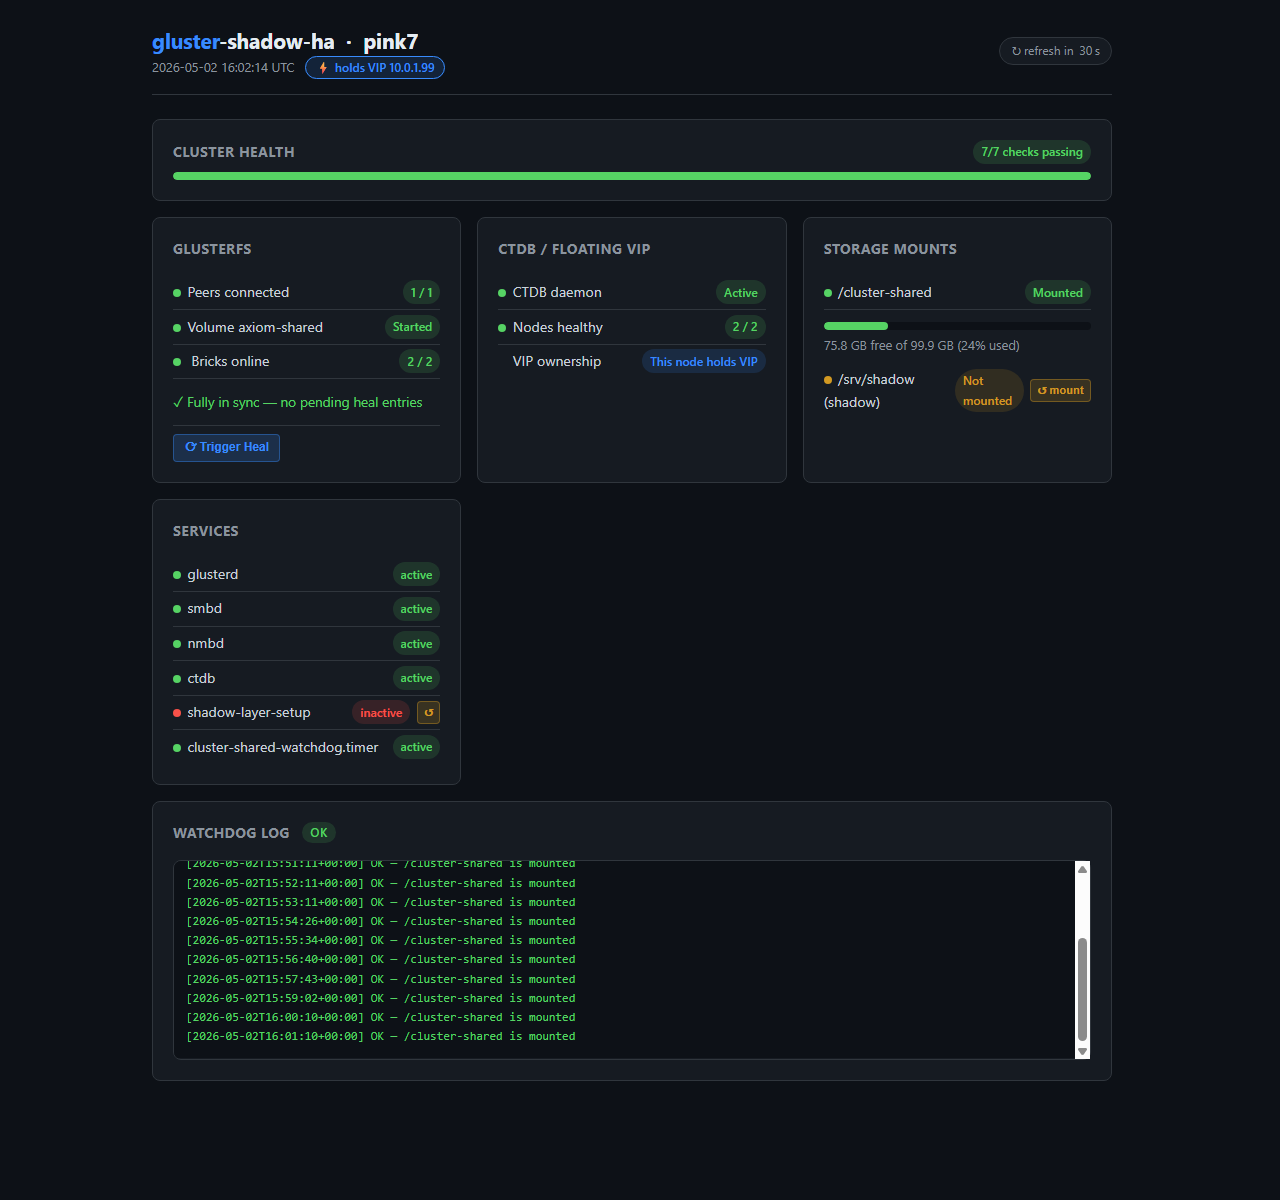
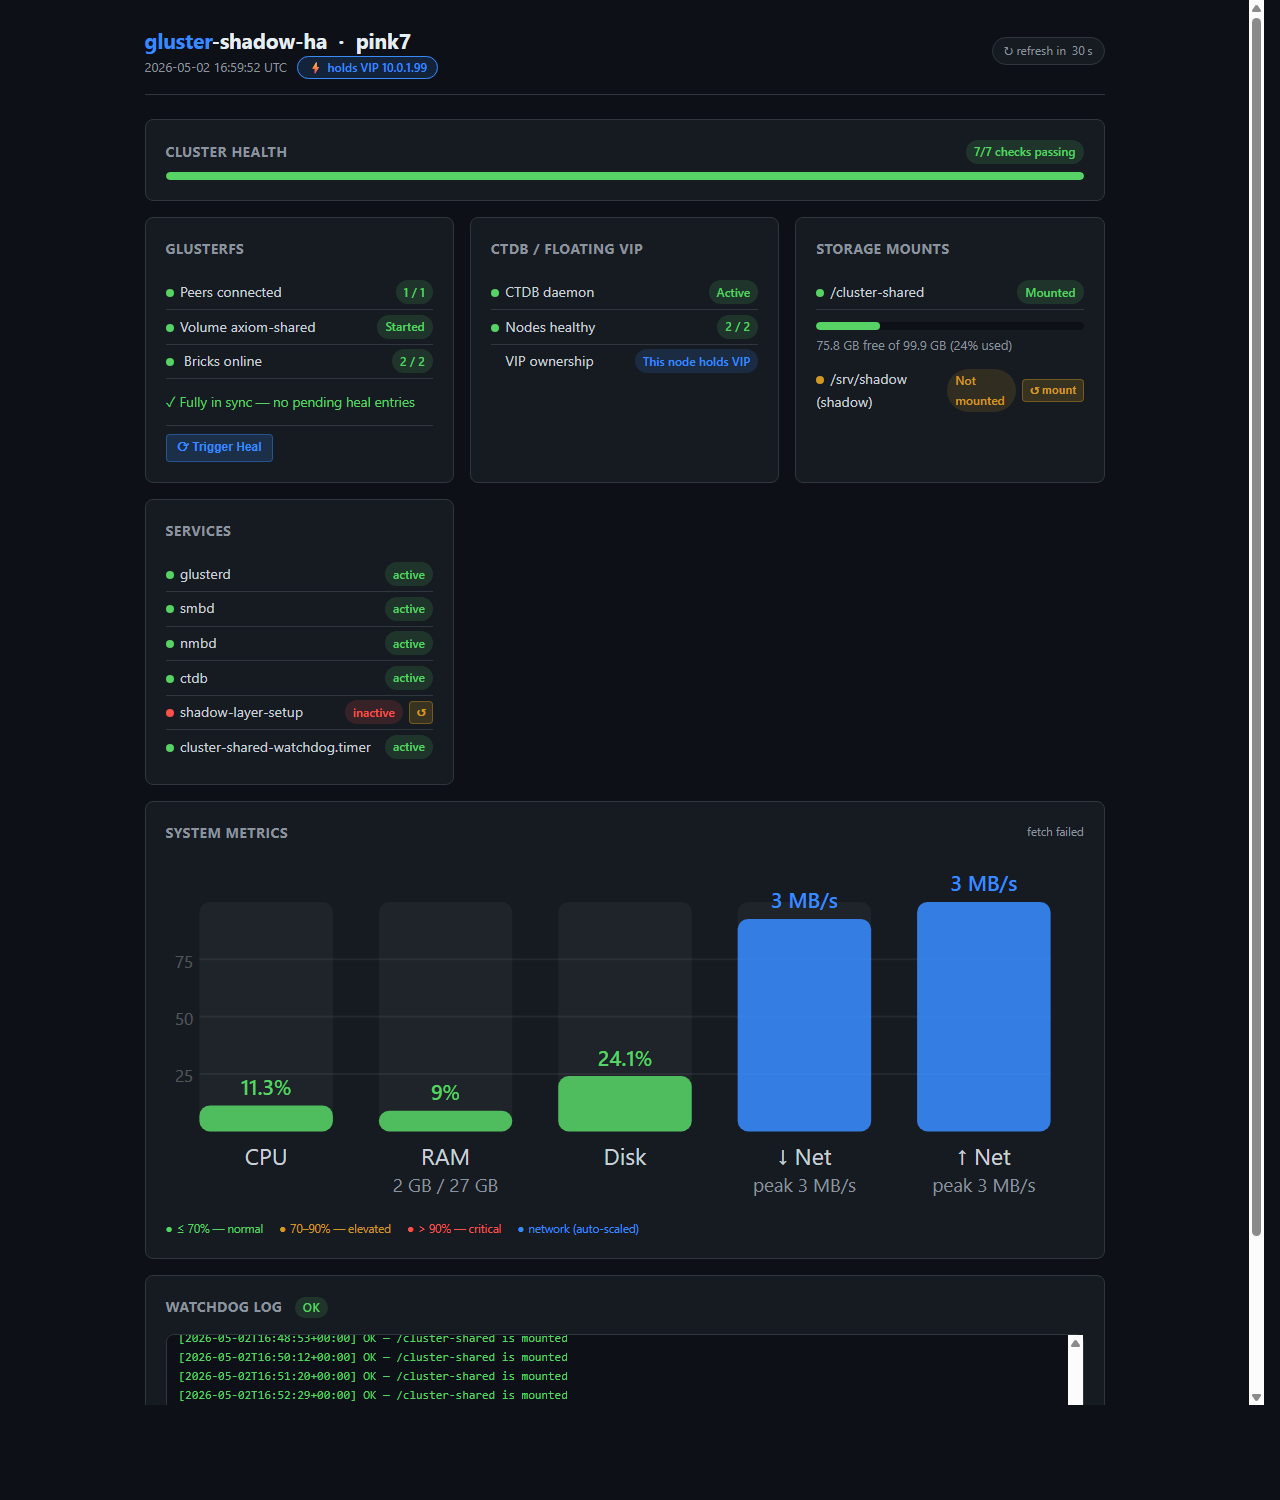
feat(dashboard): add live system metrics bar chart (CPU, RAM, disk, network)

diff --git a/scripts/dashboard.py b/scripts/dashboard.py
@@ -28,6 +28,15 @@ import subprocess, socket, os, json, time, re
 from datetime import datetime
 
 try:
+    import psutil
+    PSUTIL = True
+except ImportError:
+    PSUTIL = False
+
+# state for network rate calculation (persists across requests)
+_net_state = {"prev": None, "t": 0.0}
+
+try:
     from flask import Flask, jsonify, render_template_string, request as flask_request
     FLASK = True
 except ImportError:
@@ -57,6 +66,12 @@ def sh(cmd, timeout=6):
 
 def mountpoint(path):
     return os.path.ismount(path)
+
+def _fmt_bytes(b):
+    for u in ("B", "KB", "MB", "GB", "TB"):
+        if abs(b) < 1024: return f"{b:.0f} {u}"
+        b /= 1024
+    return f"{b:.1f} PB"
 
 def disk_free(path):
     try:
@@ -247,6 +262,48 @@ def collect_splitbrain_detail():
 
     return result
 
+def collect_system():
+    """CPU %, RAM %, disk %, and network throughput via psutil."""
+    if not PSUTIL:
+        return {"available": False}
+
+    cpu_pct = psutil.cpu_percent(interval=None)   # non-blocking; samples since last call
+    mem     = psutil.virtual_memory()
+
+    # disk — prefer cluster mount, fall back to /
+    try:
+        dp   = CLUSTER_MOUNT if mountpoint(CLUSTER_MOUNT) else "/"
+        du   = psutil.disk_usage(dp)
+        disk_pct = round(du.percent, 1)
+    except Exception:
+        disk_pct = 0
+
+    # network rate — delta since last call
+    net = psutil.net_io_counters()
+    now = time.time()
+    rx_bps = tx_bps = 0
+    prev = _net_state["prev"]
+    if prev is not None:
+        dt = now - _net_state["t"]
+        if dt > 0.05:
+            rx_bps = max(0, int((net.bytes_recv - prev.bytes_recv) / dt))
+            tx_bps = max(0, int((net.bytes_sent - prev.bytes_sent) / dt))
+    _net_state["prev"] = net
+    _net_state["t"]    = now
+
+    return {
+        "available": True,
+        "cpu_pct":   round(cpu_pct, 1),
+        "mem_pct":   round(mem.percent, 1),
+        "mem_used":  _fmt_bytes(mem.used),
+        "mem_total": _fmt_bytes(mem.total),
+        "disk_pct":  disk_pct,
+        "rx_bps":    rx_bps,
+        "tx_bps":    tx_bps,
+        "rx_fmt":    _fmt_bytes(rx_bps) + "/s",
+        "tx_fmt":    _fmt_bytes(tx_bps) + "/s",
+    }
+
 def get_all_status():
     return {
         "hostname":  HOSTNAME,
@@ -256,6 +313,7 @@ def get_all_status():
         "mounts":    collect_mounts(),
         "watchdog":  collect_watchdog(),
         "services":  collect_services(),
+        "system":    collect_system(),
     }
 
 # ── HTML template ─────────────────────────────────────────────────────────────
@@ -364,6 +422,13 @@ HTML = r"""<!DOCTYPE html>
   .modal-footer{display:flex;justify-content:flex-end;gap:.5rem;
     padding-top:1rem;margin-top:.5rem;border-top:1px solid var(--border)}
   .policy-grid{display:grid;grid-template-columns:repeat(auto-fill,minmax(130px,1fr));gap:.5rem}
+
+  /* ── system metrics chart ── */
+  .chart-wrap{width:100%;overflow:hidden}
+  .chart-wrap svg{display:block;width:100%;height:auto}
+  .sys-legend{display:flex;flex-wrap:wrap;gap:.35rem 1rem;margin-top:.6rem;font-size:.72rem;color:var(--muted)}
+  .sys-legend span::before{content:"●";margin-right:.25rem}
+  .sys-legend .lg{color:var(--green)}.sys-legend .ly{color:var(--yellow)}.sys-legend .lr{color:var(--red)}.sys-legend .lb{color:var(--blue)}
   .file-card{background:var(--bg);border:1px solid var(--border);border-radius:4px;
     padding:.75rem;margin-bottom:.6rem}
   .file-card .fc-path{font-family:monospace;font-weight:600;margin-bottom:.5rem;
@@ -578,6 +643,23 @@ HTML = r"""<!DOCTYPE html>
 </div>
 
 </div><!-- /grid -->
+
+<!-- ── System metrics card ───────────────────────────────────────────────────── -->
+<div class="card" style="margin-bottom:1rem">
+  <div style="display:flex;justify-content:space-between;align-items:center;margin-bottom:.75rem">
+    <h2 style="margin:0">System metrics</h2>
+    <span style="font-size:.72rem;color:var(--muted)" id="sys-ts">—</span>
+  </div>
+  <div class="chart-wrap" id="sys-chart">
+    <div style="color:var(--muted);font-size:.85rem;padding:.5rem 0">Loading…</div>
+  </div>
+  <div class="sys-legend">
+    <span class="lg">≤ 70% — normal</span>
+    <span class="ly">70–90% — elevated</span>
+    <span class="lr">&gt; 90% — critical</span>
+    <span class="lb">network (auto-scaled)</span>
+  </div>
+</div>
 
 <!-- ── Watchdog log card ─────────────────────────────────────────────────────── -->
 <div class="card">
@@ -798,6 +880,122 @@ function esc(s) {
     .replace(/&/g, '&amp;').replace(/</g, '&lt;')
     .replace(/>/g, '&gt;').replace(/"/g, '&quot;');
 }
+
+// ── system metrics bar chart ──────────────────────────────────────────────
+// server-baked initial data — chart renders before any fetch completes
+var initSys = {{ data.system|tojson }};
+var netPeak = 1024 * 1024; // auto-scale floor: 1 MB/s
+
+function pctColor(v) {
+  return v >= 90 ? '#f85149' : v >= 70 ? '#d29922' : '#56d364';
+}
+
+function renderSysChart(sys) {
+  if (!sys || !sys.available) {
+    document.getElementById('sys-chart').innerHTML =
+      '<div style="color:var(--muted);font-size:.82rem;padding:.4rem 0">' +
+      'psutil not installed — run: pip install psutil</div>';
+    return;
+  }
+
+  // auto-scale network
+  netPeak = Math.max(netPeak, sys.rx_bps, sys.tx_bps);
+
+  var bars = [
+    { label: 'CPU',    sub: sys.cpu_pct + '%',  pct: sys.cpu_pct,  color: pctColor(sys.cpu_pct) },
+    { label: 'RAM',    sub: sys.mem_pct + '%',  pct: sys.mem_pct,  color: pctColor(sys.mem_pct) },
+    { label: 'Disk',   sub: sys.disk_pct + '%', pct: sys.disk_pct, color: pctColor(sys.disk_pct) },
+    { label: '↓ Net',  sub: sys.rx_fmt,          pct: Math.min(100, sys.rx_bps / netPeak * 100), color: '#388bfd' },
+    { label: '↑ Net',  sub: sys.tx_fmt,          pct: Math.min(100, sys.tx_bps / netPeak * 100), color: '#388bfd' },
+  ];
+
+  // SVG layout
+  var BW  = 64;   // bar width
+  var GAP = 22;   // gap between bars
+  var CH  = 110;  // chart height (bar area)
+  var PT  = 22;   // pad top (value label)
+  var PB  = 38;   // pad bottom (name + sub-label)
+  var PL  = 16;   // pad left
+  var n   = bars.length;
+  var svgW = PL * 2 + n * BW + (n - 1) * GAP;
+  var svgH = PT + CH + PB;
+
+  // horizontal grid lines at 25 / 50 / 75 %
+  var gridLines = '';
+  [25, 50, 75].forEach(function(g) {
+    var y = PT + CH - (g / 100 * CH);
+    gridLines +=
+      '<line x1="' + PL + '" y1="' + y + '" x2="' + (svgW - PL) + '" y2="' + y + '" ' +
+      'stroke="rgba(255,255,255,0.06)" stroke-width="1"/>' +
+      '<text x="' + (PL - 3) + '" y="' + (y + 4) + '" text-anchor="end" ' +
+      'font-size="8" fill="rgba(255,255,255,0.25)">' + g + '</text>';
+  });
+
+  var rects = '';
+  bars.forEach(function(b, i) {
+    var x  = PL + i * (BW + GAP);
+    var bh = Math.max(2, b.pct / 100 * CH);
+    var by = PT + CH - bh;
+    var cx = x + BW / 2;
+
+    // background track
+    rects +=
+      '<rect x="' + x + '" y="' + PT + '" width="' + BW + '" height="' + CH + '" ' +
+      'rx="5" fill="rgba(255,255,255,0.04)"/>';
+    // bar (rounded top only)
+    rects +=
+      '<rect x="' + x + '" y="' + by + '" width="' + BW + '" height="' + bh + '" ' +
+      'rx="5" fill="' + b.color + '" opacity="0.88"/>';
+    // percentage label above bar
+    rects +=
+      '<text x="' + cx + '" y="' + (by - 5) + '" text-anchor="middle" ' +
+      'font-size="10" font-weight="600" fill="' + b.color + '">' + esc(b.sub) + '</text>';
+    // name label below chart
+    rects +=
+      '<text x="' + cx + '" y="' + (PT + CH + 16) + '" text-anchor="middle" ' +
+      'font-size="11" fill="#c9d1d9">' + esc(b.label) + '</text>';
+    // secondary info below name
+    if (b.label === 'RAM') {
+      rects +=
+        '<text x="' + cx + '" y="' + (PT + CH + 29) + '" text-anchor="middle" ' +
+        'font-size="9" fill="#8b949e">' + esc(sys.mem_used + ' / ' + sys.mem_total) + '</text>';
+    } else if (b.label === '↓ Net' || b.label === '↑ Net') {
+      rects +=
+        '<text x="' + cx + '" y="' + (PT + CH + 29) + '" text-anchor="middle" ' +
+        'font-size="9" fill="#8b949e">peak ' + esc(_fmt(netPeak) + '/s') + '</text>';
+    }
+  });
+
+  document.getElementById('sys-chart').innerHTML =
+    '<svg viewBox="0 0 ' + svgW + ' ' + svgH + '" xmlns="http://www.w3.org/2000/svg">' +
+    gridLines + rects + '</svg>';
+
+  document.getElementById('sys-ts').textContent =
+    'updated ' + new Date().toLocaleTimeString();
+}
+
+function _fmt(b) {
+  var u = ['B','KB','MB','GB'];
+  for (var i = 0; i < u.length; i++) {
+    if (Math.abs(b) < 1024) return b.toFixed(0) + ' ' + u[i];
+    b /= 1024;
+  }
+  return b.toFixed(1) + ' TB';
+}
+
+function updateSysMetrics() {
+  fetch('/api/status')
+    .then(function(r) { return r.json(); })
+    .then(function(d) { renderSysChart(d.system); })
+    .catch(function() {
+      document.getElementById('sys-ts').textContent = 'fetch failed';
+    });
+}
+
+// render immediately with server-baked data, then poll every 5 s for live updates
+renderSysChart(initSys);
+updateSysMetrics();
+setInterval(updateSysMetrics, 5000);
 </script>
 </body></html>"""
 
